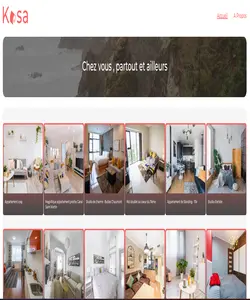
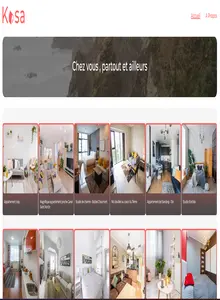
modification optimisation

diff --git a/Front-end/public/index.html b/Front-end/public/index.html
@@ -3,17 +3,16 @@
   <head>
     <meta charset="utf-8" />
     <link rel="icon" href="%PUBLIC_URL%/favicon.ico" />
-    <script src="https://kit.fontawesome.com/d5732881fd.js" crossorigin="anonymous" defer></script>
+    <link rel="preconnect" href="https://fonts.googleapis.com">
+    <link rel="preconnect" href="https://fonts.gstatic.com" crossorigin>
+    <link href="https://fonts.googleapis.com/css2?family=Caveat:wght@500;600;700&family=Ubuntu&display=swap" rel="stylesheet">
     <meta name="viewport" content="width=device-width, initial-scale=1" />
     <meta name="theme-color" content="#000000" />
     <meta 
       name="description" 
-      content="Portfolio Thibaut Denis Dévellopeur web full stack.">
+      content="Portfolio Thibaut Denis Développeur web full stack.">
     <link rel="apple-touch-icon" href="%PUBLIC_URL%/logo192.png" />
     <link rel="manifest" href="%PUBLIC_URL%/manifest.json" />
-
-    <!-- Importation des polices de caractères -->
-    <link rel="stylesheet" href="https://fonts.googleapis.com/css2?family=Caveat:wght@400;500;600;700&family=Ubuntu:wght@300;400;500;700" defer>
 
     <title>Portfolio Denis Thibaut</title>
   </head>

diff --git a/Front-end/src/CSS/Carrousel.css b/Front-end/src/CSS/Carrousel.css
@@ -74,6 +74,7 @@
   flex-direction: column;
   align-items: center;
   overflow: auto;
+  
 }
 .modal h2 {
   margin-top: 0;
@@ -133,6 +134,7 @@
   }
   .modal {
     max-width: 700px;
+    max-height: 600px;
   }
   .closeButton {
     left: 290px;
@@ -144,14 +146,16 @@
     width: 300px;
 }
 .carousel_item_img{
-    width: 250px;
+    width: 220px;
     height: 300px;
+    margin-top: 20px;
 }
 .modal {
   max-width: 400px;
+  max-height: 500px;
 }
 .modal img{
-  width: 250px;
+  width: 220px;
   height: 300px;
 }
 .closeButton {
@@ -171,6 +175,8 @@
 }
 .modal {
   max-width: 300px;
+  max-height: 400px;
+  padding: 5px;
 }
 .closeButton {
   left: 110px;

diff --git a/Back-end/app.js b/Back-end/app.js
@@ -27,6 +27,9 @@ app.use((req, res, next) => {
   res.setHeader('Access-Control-Allow-Origin', '*');
   res.setHeader('Access-Control-Allow-Headers', 'Origin, X-Requested-With, Content, Accept, Content-Type, Authorization');
   res.setHeader('Access-Control-Allow-Methods', 'GET, POST, PUT, DELETE, PATCH, OPTIONS');
+  // Définition des en-têtes de cache pour les ressources statiques
+  res.setHeader('Cache-Control', 'public, max-age=604800'); // 1 semaine
+
   next();
 });
 

diff --git a/Front-end/src/App.js b/Front-end/src/App.js
@@ -16,7 +16,7 @@ function App() {
     <div>
         <Header />
         <Routes>
-          <Route exact path="/Portfolio-Thibaut/" element={<Home />}/>
+          <Route exact path="/" element={<Home />}/>
           <Route path="*" element={<Erreur />}/>
         </Routes>
         <Footer />

diff --git a/Front-end/src/CSS/index.css b/Front-end/src/CSS/index.css
@@ -2,6 +2,7 @@
   box-sizing: border-box;
   font-size: 40px;
   font-family: 'Ubuntu', sans-serif, Courier, monospace;
+  font-weight: 400;
   color: #242424;
 }
 html,body,#root {
